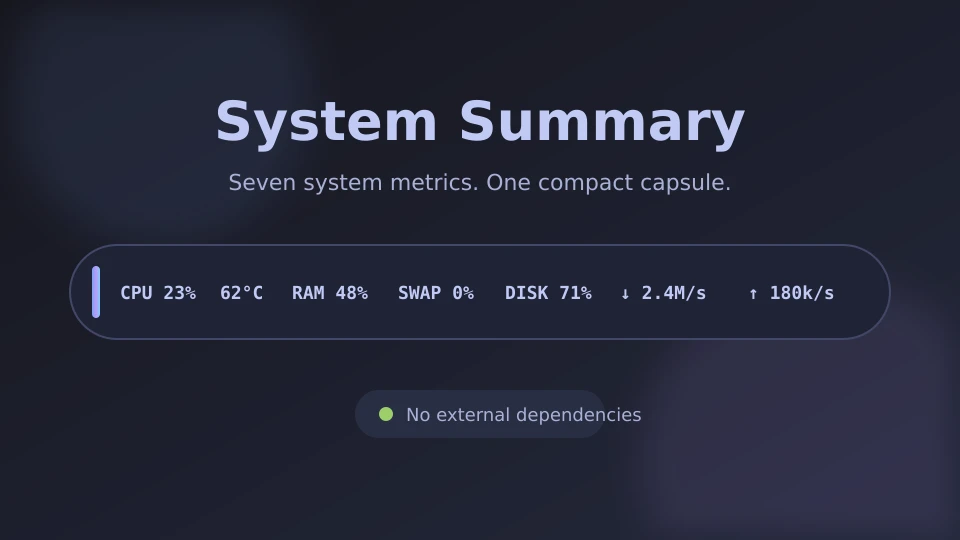
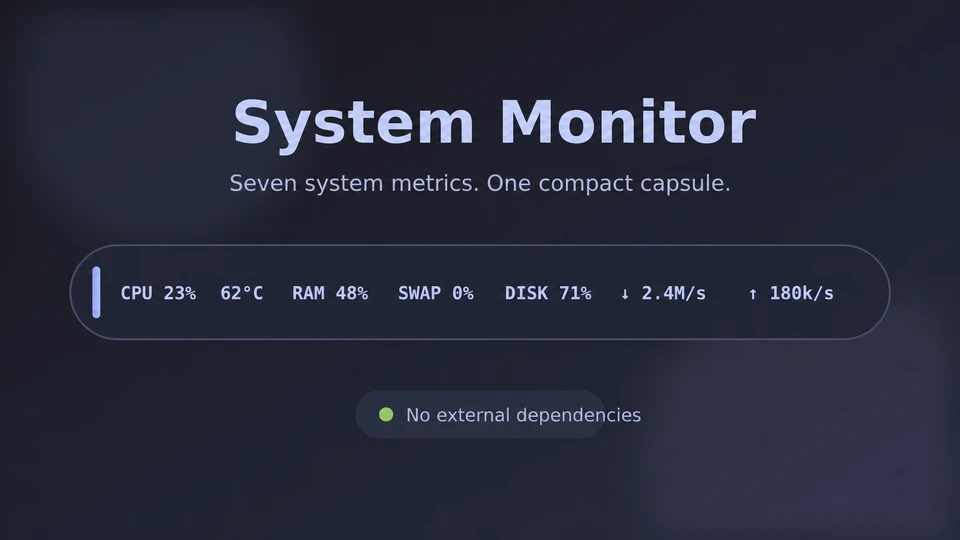
Rename plugin to System Monitor

diff --git a/README.md b/README.md
@@ -1,14 +1,14 @@
-# System Summary
+# System Monitor
 
-System Summary combines seven host metrics into one compact Noctalia bar capsule: CPU usage, CPU temperature, RAM, swap, disk usage, download rate, and upload rate. Subtle dividers separate processor, memory, storage, and network groups.
+System Monitor combines seven host metrics into one compact Noctalia bar capsule: CPU usage, CPU temperature, RAM, swap, disk usage, download rate, and upload rate. Subtle dividers separate processor, memory, storage, and network groups.
 
 ## Plugin
 
-Field | Value
---- | ---
-ID | `tmelik/system-summary`
-Entries | Bar widget: `summary`
-License | GPL-3.0-only
+| Field | Value |
+| --- | --- |
+| ID | `tmelik/system-monitor` |
+| Entries | Bar widget: `summary` |
+| License | GPL-3.0-only |
 
 ## Requirements
 
@@ -19,7 +19,7 @@ License | GPL-3.0-only
 ## Usage
 
 1. Open Noctalia Settings.
-2. Go to **Bar**, add a plugin widget, and select **System Summary**.
+2. Go to **Bar**, add a plugin widget, and select **System Monitor**.
 3. Place the widget in the desired section of the bar.
 
 Left-click the capsule to open the **System** tab in Control Center. Hover it to see the full metric names and values.
@@ -30,13 +30,19 @@ Unavailable sensors are displayed as an em dash instead of a misleading zero. Ne
 
 ## Settings
 
-Setting | Default | Effect
---- | --- | ---
-CPU usage, CPU temperature, RAM, swap, disk, download, upload | On | Show or hide each metric independently.
-Category separators | On | Separate processor, memory, storage, and network groups.
-Detailed tooltip | On | Show expanded metric names and values on hover.
-Compact network units | On | Use `M/s`; disable it for `MB/s`-style labels.
-Disk path | `/` | Select the filesystem whose utilization is displayed.
+| Setting | Type | Default | Description |
+| --- | --- | --- | --- |
+| `show_cpu_usage` | `bool` | `true` | Show aggregate CPU usage. |
+| `show_cpu_temperature` | `bool` | `true` | Show CPU temperature when a sensor is available. |
+| `show_ram` | `bool` | `true` | Show RAM utilization. |
+| `show_swap` | `bool` | `true` | Show swap utilization. |
+| `show_disk` | `bool` | `true` | Show utilization for `disk_path`. |
+| `show_download` | `bool` | `true` | Show aggregate receive rate. |
+| `show_upload` | `bool` | `true` | Show aggregate transmit rate. |
+| `show_separators` | `bool` | `true` | Separate non-empty processor, memory, storage, and network groups. |
+| `show_tooltip` | `bool` | `true` | Show expanded metric names and values on hover. |
+| `compact_network` | `bool` | `true` | Use `M/s`-style labels; disable for `MB/s`-style labels. |
+| `disk_path` | `string` | `/` | Select the filesystem whose utilization is displayed. |
 
 ## Notes
 

diff --git a/knowledge/current-state.md b/knowledge/current-state.md
@@ -1,7 +1,7 @@
 ---
 type: Handoff
 title: Current implementation state
-description: Verified status and the next publication steps for System Summary 1.1.0.
+description: Verified status and the next publication steps for System Monitor 1.2.0.
 tags: [handoff, status, release]
 status: stable
 sources:
@@ -13,7 +13,7 @@ sources:
 
 # Current implementation state
 
-Version `1.1.0` implements one dependency-free bar widget using plugin API 16. The widget has been exercised in Noctalia v5 beta.9 with all seven metrics visible in one capsule. Thin separators group processor, memory, storage, and network values. RAM uses the supported `server-2` glyph, disk uses `database`, and the default click action opens Control Center.
+Version `1.2.0` implements one dependency-free bar widget using plugin API 16. The widget has been exercised in Noctalia v5 beta.9 with all seven metrics visible in one capsule. Thin separators group processor, memory, storage, and network values. RAM uses the supported `server-2` glyph, disk uses `database`, and the default click action opens Control Center.
 
 The manifest exposes per-instance controls for every metric plus separators, tooltip visibility, network-unit style, and disk path. Empty categories do not leave orphan separators, and disabling all metrics leaves a compact recovery prompt.
 

diff --git a/knowledge/local-development.md b/knowledge/local-development.md
@@ -18,14 +18,14 @@ Run the repository-local knowledge and privacy check:
 python3 scripts/validate_okf.py
 ```
 
-For runtime testing, place the plugin where a Noctalia development source can discover it, enable `tmelik/system-summary`, and add `tmelik/system-summary:summary` to a bar. Confirm all seven values render, unavailable sensors show `—`, the tooltip is readable, and left-click opens Control Center's System tab.
+For runtime testing, place the plugin where a Noctalia development source can discover it, enable `tmelik/system-monitor`, and add `tmelik/system-monitor:summary` to a bar. Confirm all seven values render, unavailable sensors show `—`, the tooltip is readable, and left-click opens Control Center's System tab.
 
 Before a community submission:
 
 1. review every changed file and the synthetic thumbnail;
 2. confirm `plugin.toml` uses an allowed ID, tags, semantic version, and the oldest required API level;
 3. run the local validator;
-4. run the upstream community repository checks after placing this directory at `system-summary/`;
+4. run the upstream community repository checks after placing this directory at `system-monitor/`;
 5. include a sanitized screenshot or short video in the pull-request description.
 
 Do not edit the community repository's generated `catalog.toml`.

diff --git a/knowledge/plugin-architecture.md b/knowledge/plugin-architecture.md
@@ -1,6 +1,6 @@
 ---
 type: Architecture
-title: System Summary plugin architecture
+title: System Monitor plugin architecture
 description: How the bar widget obtains, formats, and renders Noctalia system statistics.
 tags: [noctalia, plugin, architecture, system-monitor]
 status: stable
@@ -11,7 +11,7 @@ sources:
 
 # Plugin architecture
 
-`plugin.toml` declares one bar-widget entry, `tmelik/system-summary:summary`, at plugin API 16. API 16 is the oldest level that provides both aggregate system snapshots and disk statistics.
+`plugin.toml` declares one bar-widget entry, `tmelik/system-monitor:summary`, at plugin API 16. API 16 is the oldest level that provides both aggregate system snapshots and disk statistics.
 
 `widget.luau` runs in Noctalia's plugin VM and redraws once per second. Noctalia's system-monitor service owns the actual sampling cadence, so redraws may legitimately reuse the latest sample.
 

diff --git a/knowledge/log.md b/knowledge/log.md
@@ -4,3 +4,4 @@
 - **2026-08-24 — Presentation:** Grouped processor, memory, storage, and network metrics with subtle separators while retaining one compact capsule.
 - **2026-08-24 — Settings:** Released the local 1.1.0 manifest with independent metric visibility, separator and tooltip toggles, network-unit style, configurable disk path, and a distinct `server-2` RAM glyph.
 - **2026-08-24 — Licensing:** Selected GPL-3.0-only for the public plugin and added the standard license text.
+- **2026-08-24 — Rename:** Renamed the public plugin to System Monitor with canonical id `tmelik/system-monitor` before community-store submission.

diff --git a/knowledge/user-behavior.md b/knowledge/user-behavior.md
@@ -1,7 +1,7 @@
 ---
 type: InterfaceContract
 title: User-visible widget behavior
-description: Stable presentation and interaction contracts for the System Summary capsule.
+description: Stable presentation and interaction contracts for the System Monitor capsule.
 tags: [noctalia, bar, interface, metrics]
 status: stable
 sources:

diff --git a/knowledge/index.md b/knowledge/index.md
@@ -2,7 +2,7 @@
 okf_version: "0.2"
 ---
 
-# System Summary knowledge index
+# System Monitor knowledge index
 
 This directory is the repository-local Open Knowledge Format v0.2 discovery and handoff layer. Source files remain authoritative; these concepts explain how they fit together and how to maintain them safely.
 

diff --git a/AGENTS.md b/AGENTS.md
@@ -1,6 +1,6 @@
 # Project agent guide
 
-This repository contains the `tmelik/system-summary` Noctalia v5 plugin.
+This repository contains the `tmelik/system-monitor` Noctalia v5 plugin.
 
 ## Reading order
 
